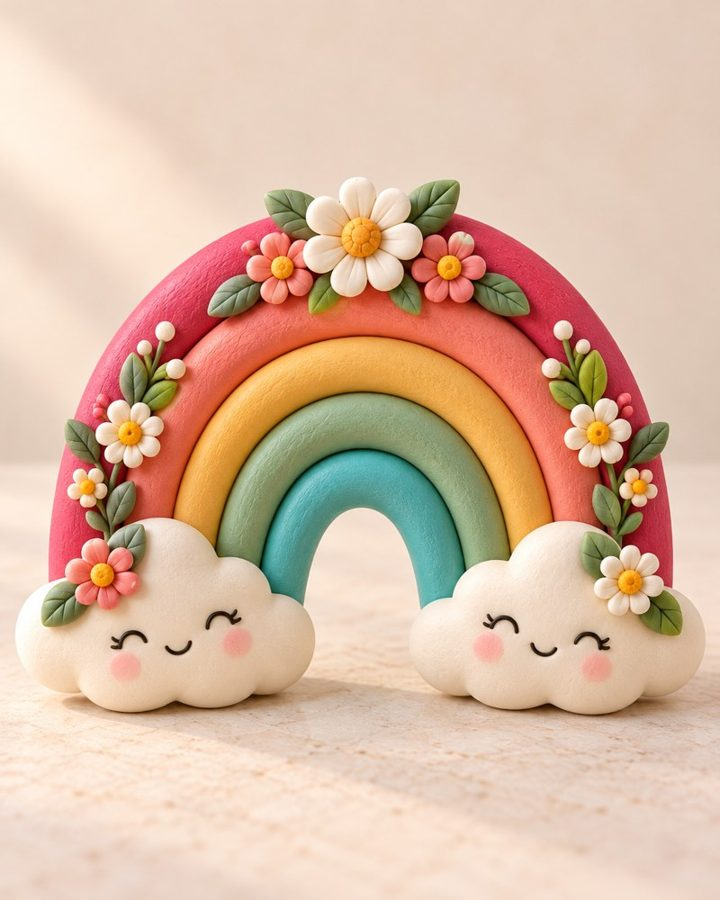
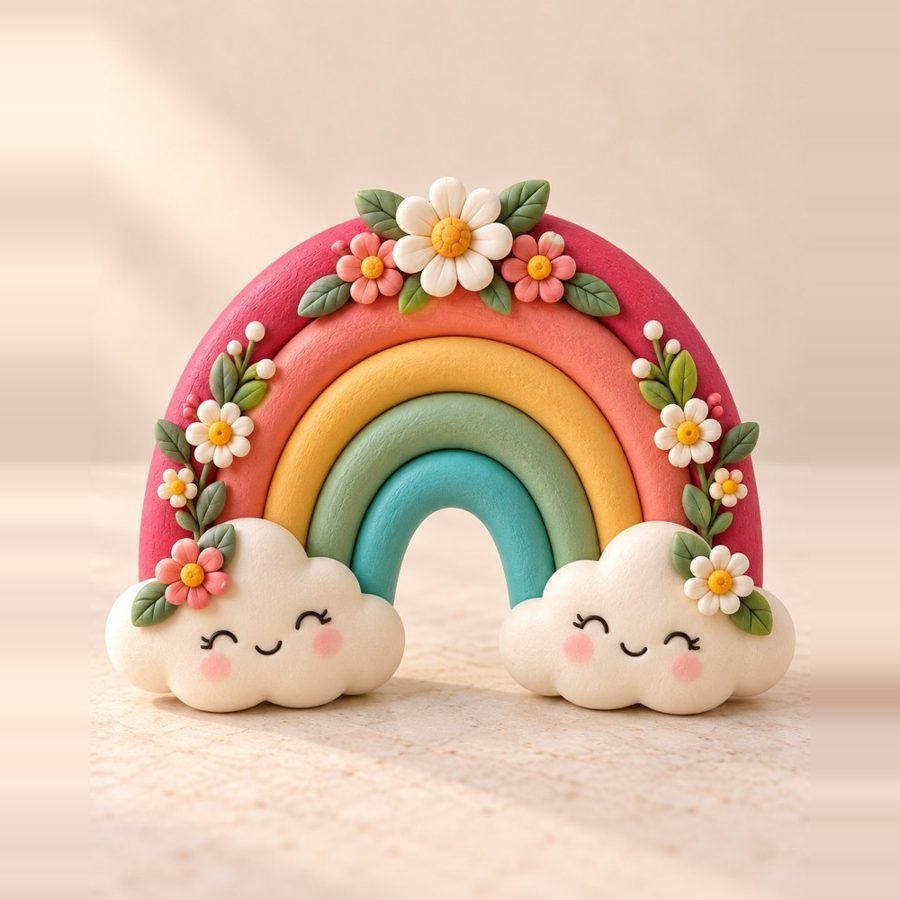
Catálogo demo

Changed region(s): [[0.0, 0.1867, 0.9778, 0.84], [0.0917, 0.0311, 0.1528, 0.0933], [0.1528, 0.0933, 0.1833, 0.1244]]

diff --git a/style.css b/style.css
@@ -1,5 +1,5 @@
 @import url('https://fonts.googleapis.com/css2?family=DM+Sans:wght@400;500;600;700&family=Playfair+Display:wght@500;600;700&display=swap');
-:root{--ink:#493454;--purple:#7951a1;--cream:#fffaf5;--line:#e9deeb;--muted:#827386}*{box-sizing:border-box}html{scroll-behavior:smooth;scroll-padding-top:30px}body{margin:0;background:var(--cream);color:var(--ink);font:16px/1.6 'DM Sans',sans-serif}button,input,select,textarea{font:inherit}button,a{touch-action:manipulation}button{cursor:pointer}a{color:inherit;text-decoration:none}button:focus-visible,a:focus-visible,input:focus-visible,select:focus-visible,textarea:focus-visible{outline:3px solid #ba8cdd;outline-offset:3px}.demo{background:#eee4f5;color:#654477;text-align:center;font-size:12px;padding:9px 16px}.demo button{border:0;background:none;color:inherit;text-decoration:underline;margin-left:12px}header{max-width:1240px;margin:auto;padding:24px 38px;display:flex;align-items:center;justify-content:space-between;border-bottom:1px solid var(--line)}.brand{display:flex;gap:10px;align-items:center;font:600 22px 'Playfair Display',Georgia,serif}.mark{font-size:35px;color:var(--purple)}.bag,.secondary{background:white;border:1px solid var(--line);border-radius:12px;padding:11px 18px;color:var(--ink)}.bag span{background:var(--purple);color:white;border-radius:50%;padding:3px 8px;margin-left:8px;font-size:12px}main{max-width:1240px;margin:auto;padding:0 38px}.hero{display:grid;grid-template-columns:1.05fr 1fr;gap:70px;align-items:center;padding:55px 0 76px}.eyebrow{font-size:11px;letter-spacing:2px;font-weight:700;color:var(--purple)}h1,h2,h3{font-family:'Playfair Display',Georgia,serif;font-weight:500;line-height:1.15}h1{font-size:clamp(42px,5vw,68px);letter-spacing:-2px;margin:20px 0}h2{font-size:36px;margin:12px 0}h3{font-size:22px}.hero p{max-width:430px;color:var(--muted);margin-bottom:28px}.primary{display:inline-flex;align-items:center;justify-content:center;gap:22px;background:var(--purple);color:white;border:1px solid #6b438f;border-bottom:4px solid #593578;border-radius:12px;padding:14px 22px;font-weight:600;box-shadow:0 8px 18px #7951a119;transition:transform .18s}.primary:hover{transform:translateY(-2px)}.primary:active{transform:translateY(1px)}.small-notes{display:flex;gap:25px;font-size:12px;color:var(--muted);margin-top:24px}.hero-photo{position:relative;border-radius:150px 150px 24px 24px;background:#eee1eb;padding:12px;transform:rotate(2deg);box-shadow:0 25px 60px #7951a119}.hero-photo img{width:100%;height:410px;object-fit:cover;border-radius:140px 140px 18px 18px;display:block}.photo-note{position:absolute;bottom:28px;left:30px;background:#fffcf5ed;padding:10px 18px;border-radius:8px;font:italic 18px Georgia}.seal{position:absolute;right:-20px;top:20px;border:1px solid #d7bcde;background:#f7effa;border-radius:50%;width:95px;height:95px;display:grid;align-content:center;text-align:center;line-height:1.3;font:italic 18px Georgia;transform:rotate(10deg)}.section-heading{display:flex;align-items:end;justify-content:space-between;gap:30px}.section-heading p{font-size:14px;color:var(--muted);max-width:260px}.toolbar{display:flex;justify-content:space-between;gap:20px;margin:25px 0}.filters{display:flex;gap:8px;flex-wrap:wrap}.filters button{border:1px solid var(--line);border-radius:25px;background:transparent;color:var(--ink);padding:8px 15px;font-size:13px}.filters button.active{background:#7951a1;color:white;border-color:var(--purple)}input,textarea,select{width:100%;border:1px solid var(--line);border-radius:9px;padding:11px;background:#fff;color:var(--ink)}#search{width:210px;font-size:13px}.grid{display:grid;grid-template-columns:repeat(3,1fr);gap:28px}.card{background:#fff;border:1px solid #ede4e9;border-radius:19px;overflow:hidden;box-shadow:0 7px 24px #4b2a5910;transition:transform .2s}.card:hover{transform:translateY(-4px)}.product-photo{position:relative;background:#f3eee9;aspect-ratio:1}.product-photo img{width:100%;height:100%;object-fit:cover;display:block}.tag{position:absolute;top:13px;left:13px;background:#fffffff0;padding:5px 10px;border-radius:20px;font-size:10px;letter-spacing:.2px}.card-body{padding:21px}.card h3{margin:0 0 10px;font-size:25px}.card p{font-size:13px;color:var(--muted);min-height:42px;margin:0 0 17px}.card label{font-size:11px;display:block}.card select{margin:4px 0 17px;padding:8px;font-size:13px}.card-bottom{display:flex;align-items:center;justify-content:space-between;gap:12px}.price{font-size:18px;font-weight:600}.add{border:1px solid #d6c4e2;background:#f3ebf9;color:#70458e;padding:8px 15px;border-radius:9px;font-size:13px;font-weight:700}.how{margin:70px 0;padding:40px;background:#f1e9f5;border:1px solid #e8d8ee;border-radius:24px;text-align:center}.how>div{display:grid;grid-template-columns:repeat(3,1fr);gap:32px;margin-top:30px}.how b{font:italic 28px Georgia;color:#a37db9}.how h3{font-size:22px;margin:12px 0}.how p{font-size:13px;color:var(--muted)}footer{padding:35px;text-align:center;border-top:1px solid var(--line)}footer>span{font:24px Georgia}footer p,footer small{font-size:12px;color:var(--muted)}dialog{border:0;color:var(--ink);padding:30px;background:var(--cream);max-height:100dvh;overflow:auto}dialog::backdrop{background:#2c173b66;backdrop-filter:blur(3px)}#cart{margin:0 0 0 auto;width:480px;max-width:100%;height:100dvh}#settings{width:550px;max-width:95%;border-radius:20px}#settings p,#settings small{font-size:13px;color:var(--muted)}.drawer-head{display:flex;align-items:center;justify-content:space-between;gap:20px}.drawer-head h2{font-size:30px}.icon{border:0;background:none;font-size:32px;color:var(--ink)}.cart-line{display:flex;gap:14px;padding:20px 0;border-bottom:1px solid var(--line)}.cart-line img{width:75px;height:85px;object-fit:cover;border-radius:9px}.line-info{flex:1}.line-info strong{display:block}.line-info small{display:block;color:var(--muted)}.quantity{display:flex;align-items:center;gap:15px;margin-top:10px}.quantity button{border:1px solid var(--line);background:white;border-radius:6px;min-width:30px}.remove{border:0;background:none;color:#8f5c7c;font-size:12px}.total{display:flex;justify-content:space-between;margin-top:25px}.muted{font-size:12px;color:var(--muted)}label{display:block;margin:14px 0;font-size:13px}label input,label textarea,label select{margin-top:5px}textarea{min-height:90px;resize:vertical}.wide{width:100%;margin-top:12px}.green{background:#247759;border-color:#1b5c43}pre{white-space:pre-wrap;overflow-wrap:anywhere;font:13px/1.6 'DM Sans',sans-serif;background:#f0e9f4;padding:18px;border-radius:12px}.text-button{background:none;border:0;color:var(--muted);margin-top:18px}#toast{position:fixed;bottom:25px;left:50%;transform:translateX(-50%);background:var(--ink);color:white;border-radius:12px;padding:12px 22px;font-size:13px;opacity:0;pointer-events:none;z-index:10;transition:opacity .2s}#toast.show{opacity:1}[hidden]{display:none!important}@media(max-width:760px){header{padding:18px 20px}.brand{font-size:18px}.bag{padding:8px 10px;font-size:12px}main{padding:0 20px}.hero{grid-template-columns:1fr;gap:35px;padding:35px 0 50px}h1{font-size:46px}.hero-photo{max-width:420px;margin:0 15px}.hero-photo img{height:330px}.hero-copy p{font-size:15px}.small-notes{gap:15px;font-size:11px}.seal{width:80px;height:80px;font-size:15px}.section-heading{display:block}.section-heading p{max-width:none}.toolbar{display:block}#search{width:100%;margin-top:15px}.grid{grid-template-columns:repeat(2,1fr);gap:13px}.card-body{padding:13px}.card h3{font-size:20px}.card p{font-size:12px;min-height:58px}.card-bottom{align-items:start;flex-direction:column;gap:8px}.add{width:100%}.price{font-size:16px}.tag{font-size:9px;top:8px;left:8px}.how{padding:28px 20px;margin:45px 0}.how>div{grid-template-columns:1fr;gap:15px}.how h2{font-size:29px}dialog{padding:22px}.demo{font-size:10px}.demo button{font-size:10px}.photo-note{font-size:15px}}@media(prefers-reduced-motion:reduce){*{scroll-behavior:auto!important;transition:none!important;transform:none!important}}
+:root{--ink:#493454;--purple:#7951a1;--cream:#fffaf5;--line:#e9deeb;--muted:#827386}*{box-sizing:border-box}html{scroll-behavior:smooth;scroll-padding-top:30px}body{margin:0;background:var(--cream);color:var(--ink);font:16px/1.6 'DM Sans',sans-serif}button,input,select,textarea{font:inherit}button,a{touch-action:manipulation}button{cursor:pointer}a{color:inherit;text-decoration:none}button:focus-visible,a:focus-visible,input:focus-visible,select:focus-visible,textarea:focus-visible{outline:3px solid #ba8cdd;outline-offset:3px}.demo{background:#eee4f5;color:#654477;text-align:center;font-size:12px;padding:9px 16px}.demo button{border:0;background:none;color:inherit;text-decoration:underline;margin-left:12px}header{max-width:1240px;margin:auto;padding:24px 38px;display:flex;align-items:center;justify-content:space-between;border-bottom:1px solid var(--line)}.brand{display:flex;gap:10px;align-items:center;font:600 22px 'Playfair Display',Georgia,serif}.mark{font-size:35px;color:var(--purple)}.bag,.secondary{background:white;border:1px solid var(--line);border-radius:12px;padding:11px 18px;color:var(--ink)}.bag span{background:var(--purple);color:white;border-radius:50%;padding:3px 8px;margin-left:8px;font-size:12px}main{max-width:1240px;margin:auto;padding:0 38px}.hero{display:grid;grid-template-columns:1.05fr 1fr;gap:70px;align-items:center;padding:55px 0 76px}.eyebrow{font-size:11px;letter-spacing:2px;font-weight:700;color:var(--purple)}h1,h2,h3{font-family:'Playfair Display',Georgia,serif;font-weight:500;line-height:1.15}h1{font-size:clamp(42px,5vw,68px);letter-spacing:-2px;margin:20px 0}h2{font-size:36px;margin:12px 0}h3{font-size:22px}.hero p{max-width:430px;color:var(--muted);margin-bottom:28px}.primary{display:inline-flex;align-items:center;justify-content:center;gap:22px;background:var(--purple);color:white;border:1px solid #6b438f;border-bottom:4px solid #593578;border-radius:12px;padding:14px 22px;font-weight:600;box-shadow:0 8px 18px #7951a119;transition:transform .18s}.primary:hover{transform:translateY(-2px)}.primary:active{transform:translateY(1px)}.small-notes{display:flex;gap:25px;font-size:12px;color:var(--muted);margin-top:24px}.hero-photo{position:relative;border-radius:28px;background:#eee1eb;padding:12px;transform:rotate(2deg);box-shadow:0 25px 60px #7951a119}.hero-photo img{width:100%;height:auto;object-fit:contain;border-radius:20px;display:block;background:#f6efe7}.photo-note{position:absolute;bottom:-16px;left:30px;box-shadow:0 6px 16px #4b2a5914;background:#fffcf5ed;padding:10px 18px;border-radius:8px;font:italic 18px Georgia}.seal{position:absolute;right:-20px;top:20px;border:1px solid #d7bcde;background:#f7effa;border-radius:50%;width:95px;height:95px;display:grid;align-content:center;text-align:center;line-height:1.3;font:italic 18px Georgia;transform:rotate(10deg)}.section-heading{display:flex;align-items:end;justify-content:space-between;gap:30px}.section-heading p{font-size:14px;color:var(--muted);max-width:260px}.toolbar{display:flex;justify-content:space-between;gap:20px;margin:25px 0}.filters{display:flex;gap:8px;flex-wrap:wrap}.filters button{border:1px solid var(--line);border-radius:25px;background:transparent;color:var(--ink);padding:8px 15px;font-size:13px}.filters button.active{background:#7951a1;color:white;border-color:var(--purple)}input,textarea,select{width:100%;border:1px solid var(--line);border-radius:9px;padding:11px;background:#fff;color:var(--ink)}#search{width:210px;font-size:13px}.grid{display:grid;grid-template-columns:repeat(3,1fr);gap:28px}.card{background:#fff;border:1px solid #ede4e9;border-radius:19px;overflow:hidden;box-shadow:0 7px 24px #4b2a5910;transition:transform .2s}.card:hover{transform:translateY(-4px)}.product-photo{position:relative;background:#f6efe7;aspect-ratio:1}.product-photo img{width:100%;height:100%;object-fit:contain;object-position:center;display:block}.tag{position:absolute;top:13px;left:13px;background:#fffffff0;padding:5px 10px;border-radius:20px;font-size:10px;letter-spacing:.2px}.card-body{padding:21px}.card h3{margin:0 0 10px;font-size:25px}.card p{font-size:13px;color:var(--muted);min-height:42px;margin:0 0 17px}.card label{font-size:11px;display:block}.card select{margin:4px 0 17px;padding:8px;font-size:13px}.card-bottom{display:flex;align-items:center;justify-content:space-between;gap:12px}.price{font-size:18px;font-weight:600}.add{border:1px solid #d6c4e2;background:#f3ebf9;color:#70458e;padding:8px 15px;border-radius:9px;font-size:13px;font-weight:700}.how{margin:70px 0;padding:40px;background:#f1e9f5;border:1px solid #e8d8ee;border-radius:24px;text-align:center}.how>div{display:grid;grid-template-columns:repeat(3,1fr);gap:32px;margin-top:30px}.how b{font:italic 28px Georgia;color:#a37db9}.how h3{font-size:22px;margin:12px 0}.how p{font-size:13px;color:var(--muted)}footer{padding:35px;text-align:center;border-top:1px solid var(--line)}footer>span{font:24px Georgia}footer p,footer small{font-size:12px;color:var(--muted)}dialog{border:0;color:var(--ink);padding:30px;background:var(--cream);max-height:100dvh;overflow:auto}dialog::backdrop{background:#2c173b66;backdrop-filter:blur(3px)}#cart{margin:0 0 0 auto;width:480px;max-width:100%;height:100dvh}#settings{width:550px;max-width:95%;border-radius:20px}#settings p,#settings small{font-size:13px;color:var(--muted)}.drawer-head{display:flex;align-items:center;justify-content:space-between;gap:20px}.drawer-head h2{font-size:30px}.icon{border:0;background:none;font-size:32px;color:var(--ink)}.cart-line{display:flex;gap:14px;padding:20px 0;border-bottom:1px solid var(--line)}.cart-line img{width:80px;height:80px;flex:none;object-fit:contain;background:#f6efe7;border-radius:9px}.line-info{flex:1;min-width:0}.cart-line>strong{flex:none;white-space:nowrap;padding-right:4px}.line-info strong{display:block}.line-info small{display:block;color:var(--muted)}.quantity{display:flex;align-items:center;gap:15px;margin-top:10px}.quantity button{border:1px solid var(--line);background:white;border-radius:6px;min-width:30px}.remove{border:0;background:none;color:#8f5c7c;font-size:12px}.total{display:flex;justify-content:space-between;margin-top:25px}.muted{font-size:12px;color:var(--muted)}label{display:block;margin:14px 0;font-size:13px}label input,label textarea,label select{margin-top:5px}textarea{min-height:90px;resize:vertical}.wide{width:100%;margin-top:12px}.green{background:#247759;border-color:#1b5c43}pre{white-space:pre-wrap;overflow-wrap:anywhere;font:13px/1.6 'DM Sans',sans-serif;background:#f0e9f4;padding:18px;border-radius:12px}.text-button{background:none;border:0;color:var(--muted);margin-top:18px}#toast{position:fixed;bottom:25px;left:50%;transform:translateX(-50%);background:var(--ink);color:white;border-radius:12px;padding:12px 22px;font-size:13px;opacity:0;pointer-events:none;z-index:10;transition:opacity .2s}#toast.show{opacity:1}[hidden]{display:none!important}@media(max-width:760px){header{padding:18px 20px}.brand{font-size:18px}.bag{padding:8px 10px;font-size:12px}main{padding:0 20px}.hero{grid-template-columns:1fr;gap:35px;padding:35px 0 50px}h1{font-size:46px}.hero-photo{max-width:420px;margin:0 15px}.hero-photo img{height:auto}.hero-copy p{font-size:15px}.small-notes{gap:15px;font-size:11px}.seal{width:80px;height:80px;font-size:15px}.section-heading{display:block}.section-heading p{max-width:none}.toolbar{display:block}#search{width:100%;margin-top:15px}.grid{grid-template-columns:repeat(2,1fr);gap:13px}.card-body{padding:13px}.card h3{font-size:20px}.card p{font-size:12px;min-height:58px}.card-bottom{align-items:start;flex-direction:column;gap:8px}.add{width:100%}.price{font-size:16px}.tag{font-size:9px;top:8px;left:8px}.how{padding:28px 20px;margin:45px 0}.how>div{grid-template-columns:1fr;gap:15px}.how h2{font-size:29px}dialog{padding:22px}.demo{font-size:10px}.demo button{font-size:10px}.photo-note{font-size:15px}}@media(prefers-reduced-motion:reduce){*{scroll-behavior:auto!important;transition:none!important;transform:none!important}}
 
 /* versión clienta: sin configuración de demo */
 #setup{display:none!important}

diff --git a/index.html b/index.html
@@ -1,9 +1,9 @@
 <!doctype html><html lang="es"><head><meta charset="UTF-8"><meta name="viewport" content="width=device-width,initial-scale=1"><title>Alma de Porcelana</title><meta name="description" content="Pequeñas piezas, grandes detalles. Creaciones en porcelana fría hechas a mano, para regalar, celebrar y guardar momentos bonitos."><link rel="stylesheet" href="style.css"></head><body>
 <div class="demo">Catálogo de demostración · Productos y precios de ejemplo <button id="setup">Configurar demo</button></div>
 <header><a href="#" class="brand"><span class="mark">✿</span><span id="brand"></span></a><button class="bag" id="openCart">Mi pedido <span id="count">0</span></button></header>
-<main><section class="hero"><div class="hero-copy"><span class="eyebrow">HECHO A MANO, ELEGIDO CON AMOR</span><h1 id="tagline"></h1><p id="description"></p><a class="primary" href="#coleccion">Explorar la colección <span>↓</span></a><div class="small-notes"><span>✧ Piezas artesanales</span><span>♡ Pedidos por WhatsApp</span></div></div><div class="hero-photo"><img src="assets/casita.jpg" alt="Casita artesanal de porcelana fría"><span class="photo-note">Detalles que cuentan historias</span><span class="seal">Creado<br>con amor</span></div></section>
+<main><section class="hero"><div class="hero-copy"><span class="eyebrow">HECHO A MANO, ELEGIDO CON AMOR</span><h1 id="tagline"></h1><p id="description"></p><a class="primary" href="#coleccion">Explorar la colección <span>↓</span></a><div class="small-notes"><span>✧ Piezas artesanales</span><span>♡ Pedidos por WhatsApp</span></div></div><div class="hero-photo"><img src="assets/portada.jpg" alt="Colección de piezas de porcelana fría: casita, bailarina y hortensias" width="1400" height="1050"><span class="photo-note">Detalles que cuentan historias</span><span class="seal">Creado<br>con amor</span></div></section>
 <section id="coleccion"><div class="section-heading"><div><span class="eyebrow">ENCUENTRA TU FAVORITO</span><h2>Nuestra colección</h2></div><p>Elige tus piezas. Los detalles los coordinamos contigo.</p></div><div class="toolbar"><div id="filters" class="filters"></div><input type="search" id="search" placeholder="Buscar una pieza…" aria-label="Buscar productos"></div><div id="products" class="grid"></div><p id="empty" hidden>No encontramos piezas con esa búsqueda.</p></section>
 <section class="how"><span class="eyebrow">ASÍ DE SENCILLO</span><h2>De este catálogo a tus manos</h2><div><article><b>01</b><h3>Elige tus piezas</h3><p>Añade tus favoritas y ajusta las cantidades.</p></article><article><b>02</b><h3>Envía tu consulta</h3><p>Revisa el resumen y compártelo por WhatsApp.</p></article><article><b>03</b><h3>Coordinamos contigo</h3><p>Confirmamos disponibilidad, personalización, pago y entrega.</p></article></div></section></main>
 <footer><span id="footerBrand"></span><p>Hecho con paciencia, detalle y mucho cariño.</p><small>Catálogo creado con Tu Taller Online</small></footer>
 <dialog id="cart"><div class="drawer-head"><div><span class="eyebrow">TUS PIEZAS FAVORITAS</span><h2>Mi pedido</h2></div><button class="icon" data-close="cart" aria-label="Cerrar pedido">×</button></div><div id="cartItems"></div><div id="checkout"><div class="total"><span>Total de productos</span><strong id="total"></strong></div><p class="muted">No incluye envío. Disponibilidad y precio final sujetos a confirmación del taller.</p><label>Tu nombre <input id="customer" maxlength="80" autocomplete="given-name" placeholder="¿Cómo te llamas?"></label><label>Notas para el taller <textarea id="notes" maxlength="1000" placeholder="Fecha del evento, colores o detalles que quieras consultar…"></textarea></label><p id="leadTime" class="muted"></p><button id="review" class="primary wide">Revisar pedido →</button><div id="summary" hidden><h3>Así se enviará tu consulta</h3><pre id="message"></pre><p id="noPhone" class="muted"></p><a id="whatsapp" class="primary wide green" target="_blank" rel="noopener">Continuar a WhatsApp ↗</a><button id="copy" class="secondary wide">Copiar resumen</button><p class="muted">WhatsApp se abrirá con el texto preparado. Tú decides cuándo enviarlo. Este paso no realiza un pago ni confirma la compra.</p></div></div></dialog>
-<dialog id="settings"><div class="drawer-head"><h2>Configurar la demo</h2><button class="icon" data-close="settings" aria-label="Cerrar configuración">×</button></div><p>Los cambios se guardan solo en este navegador. Para entregar un catálogo a una clienta, se publica su configuración y sus imágenes en una copia independiente.</p><form id="configForm"><label>Nombre del taller<input name="name" required maxlength="70"></label><label>WhatsApp de destino<input name="whatsapp" inputmode="tel" placeholder="Código de país + número, sin + ni espacios" pattern="[0-9]{8,15}"></label><small>Déjalo vacío para probar el resumen sin enviar a un número.</small><label>Moneda<select name="currency"><option>USD</option><option>EUR</option><option>ARS</option><option>UYU</option><option>MXN</option><option>COP</option><option>CLP</option><option>PEN</option></select></label><label>Frase principal<input name="tagline" required maxlength="120"></label><button class="primary wide">Guardar en este navegador</button></form><button id="export" class="secondary wide">Descargar configuración del catálogo</button><button id="reset" class="text-button">Restablecer demo</button></dialog><div id="toast" role="status"></div><script src="app.js"></script><script>(function(){function c(){var b=a.contentDocument||(a.contentWindow&&a.contentWindow.document);if(b){var d=b.createElement('script');d.innerHTML="window.__CF$cv$params={r:'a5035a2ddb371533',t:'MTc5Mjk1MzY1Mw=='};var a=document.createElement('script');a.src='/cdn-cgi/challenge-platform/scripts/jsd/main.js';document.getElementsByTagName('head')[0].appendChild(a);";b.getElementsByTagName('head')[0].appendChild(d)}}if(document.body){var a=document.createElement('iframe');a.height=1;a.width=1;a.style.position='absolute';a.style.top=0;a.style.left=0;a.style.border='none';a.style.visibility='hidden';document.body.appendChild(a);if('loading'!==document.readyState)c();else if(window.addEventListener)document.addEventListener('DOMContentLoaded',c);else{var e=document.onreadystatechange||function(){};document.onreadystatechange=function(b){e(b);'loading'!==document.readyState&&(document.onreadystatechange=e,c())}}}})();</script></body></html>
+<dialog id="settings"><div class="drawer-head"><h2>Configurar la demo</h2><button class="icon" data-close="settings" aria-label="Cerrar configuración">×</button></div><p>Los cambios se guardan solo en este navegador. Para entregar un catálogo a una clienta, se publica su configuración y sus imágenes en una copia independiente.</p><form id="configForm"><label>Nombre del taller<input name="name" required maxlength="70"></label><label>WhatsApp de destino<input name="whatsapp" inputmode="tel" placeholder="Código de país + número, sin + ni espacios" pattern="[0-9]{8,15}"></label><small>Déjalo vacío para probar el resumen sin enviar a un número.</small><label>Moneda<select name="currency"><option>USD</option><option>EUR</option><option>ARS</option><option>UYU</option><option>MXN</option><option>COP</option><option>CLP</option><option>PEN</option></select></label><label>Frase principal<input name="tagline" required maxlength="120"></label><button class="primary wide">Guardar en este navegador</button></form><button id="export" class="secondary wide">Descargar configuración del catálogo</button><button id="reset" class="text-button">Restablecer demo</button></dialog><div id="toast" role="status"></div><script src="app.js"></script></body></html>

diff --git a/app.js b/app.js
@@ -21,4 +21,4 @@ $('#setup').onclick=()=>{const f=$('#configForm');for(const k of ['name','whatsa
 $('#configForm').onsubmit=e=>{e.preventDefault();const f=e.target;for(const k of ['name','whatsapp','currency','tagline'])config[k]=f.elements[k].value.trim();try{localStorage.setItem('taller-config',JSON.stringify(config))}catch{}render();$('#settings').close();toast('Configuración guardada en este navegador')};
 $('#export').onclick=()=>{const url=URL.createObjectURL(new Blob([JSON.stringify(config,null,2)],{type:'application/json'}));const a=document.createElement('a');a.href=url;a.download='catalogo.json';a.click();setTimeout(()=>URL.revokeObjectURL(url),1000)};
 $('#reset').onclick=()=>{config=structuredClone(original);cart=[];try{localStorage.removeItem('taller-config');localStorage.removeItem('taller-cart')}catch{}render();$('#settings').close();toast('Demo restablecida')};
-fetch('catalogo.json').then(r=>{if(!r.ok)throw Error('config');return r.json()}).then(data=>{original=data;const saved=read('taller-config',null);config=saved&&Array.isArray(saved.products)&&saved.products.length?saved:data;cart=read('taller-cart',[]);if(!Array.isArray(cart))cart=[];cart=cart.filter(x=>config.products.some(p=>p.id===x.id&&p.variants.includes(x.variant))&&Number.isInteger(x.qty)&&x.qty>0&&x.qty<=99);render()}).catch(()=>{$('#products').textContent='No pudimos cargar el catálogo. Actualiza la página para volver a intentarlo.'});
+fetch('catalogo.json').then(r=>{if(!r.ok)throw Error('config');return r.json()}).then(data=>{original=data;const saved=read('taller-config',null);config=structuredClone(data);if(saved)for(const k of ['name','whatsapp','currency','tagline'])if(typeof saved[k]==='string'&&saved[k])config[k]=saved[k];cart=read('taller-cart',[]);if(!Array.isArray(cart))cart=[];cart=cart.filter(x=>config.products.some(p=>p.id===x.id&&p.variants.includes(x.variant))&&Number.isInteger(x.qty)&&x.qty>0&&x.qty<=99);render()}).catch(()=>{$('#products').textContent='No pudimos cargar el catálogo. Actualiza la página para volver a intentarlo.'});
